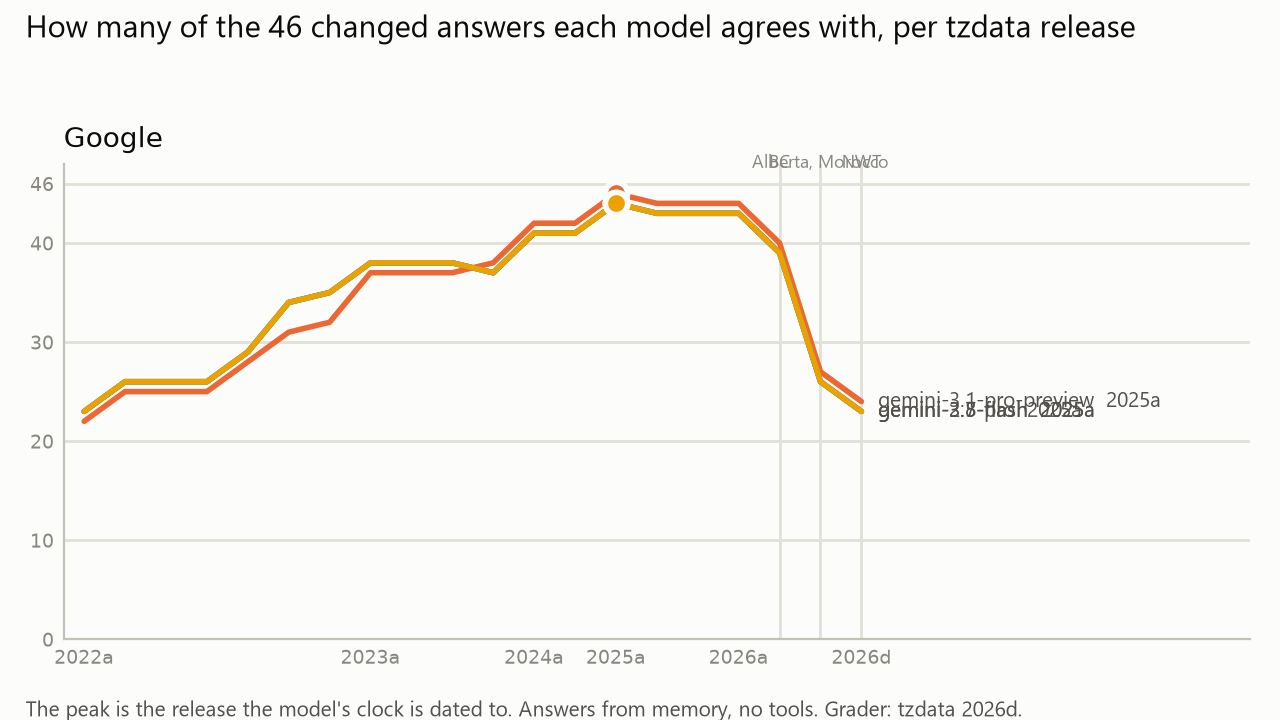
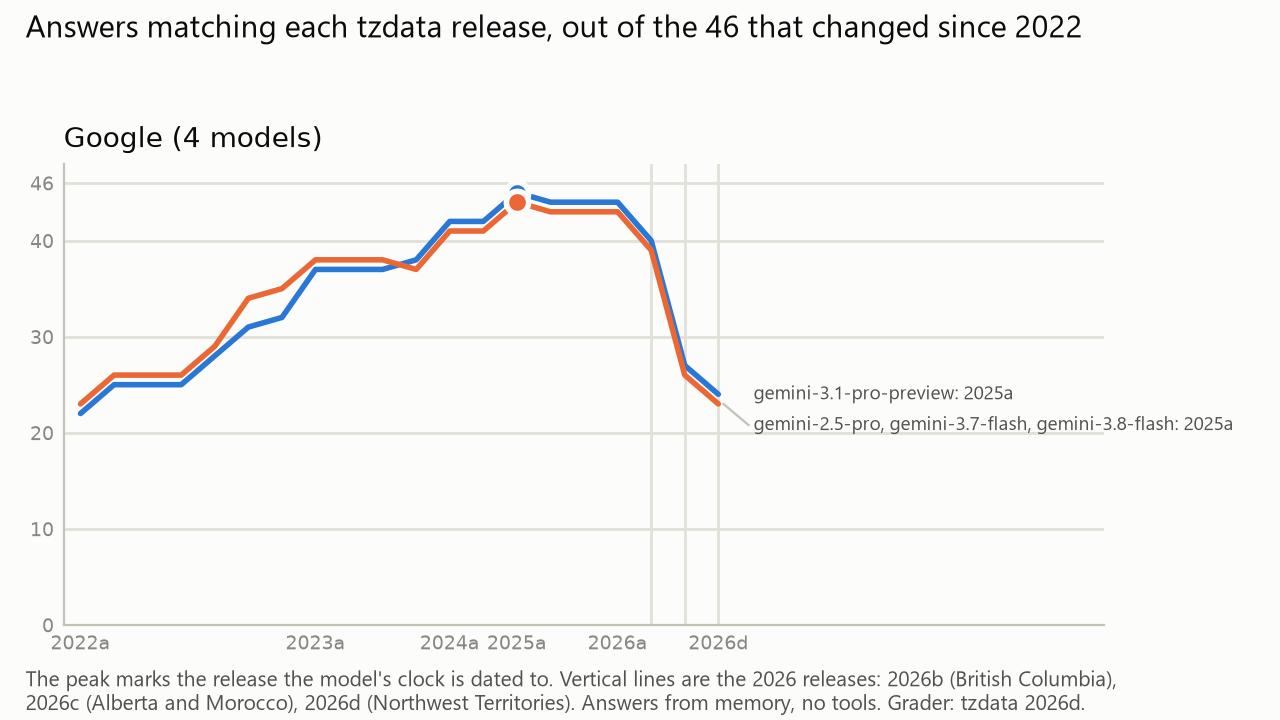
Chart label fixes; add quotes helper

diff --git a/analysis/plot_ladder.py b/analysis/plot_ladder.py
@@ -81,26 +81,43 @@ def main() -> None:
     for ax, name in zip(axes.flat, order):
         ax.set_facecolor(SURFACE)
         series = sorted(panels[name], key=lambda r: short(r["model"]))
-        for i, r in enumerate(series[:5]):
-            colour = SERIES[i]
+        # Models with identical curves share one line and one label: an identical
+        # ladder row means an identical clock, which is worth seeing as one line.
+        curves: dict[tuple, list[dict]] = {}
+        for r in series:
             agree = r["clock"]["agreement_by_release"]
-            y = [agree[f"{v} ({INDEX[v]['iana']})"] for v in RELEASES]
+            y = tuple(agree[f"{v} ({INDEX[v]['iana']})"] for v in RELEASES)
+            curves.setdefault(y, []).append(r)
+        distinct = sorted(curves.items(), key=lambda kv: -kv[0][-1])  # by end value, high to low
+
+        # End-label positions: keep labels at least `gap` apart, top down.
+        gap = 3.2
+        label_y: list[float] = []
+        for y, _ in distinct:
+            want = float(y[-1])
+            if label_y and want > label_y[-1] - gap:
+                want = label_y[-1] - gap
+            label_y.append(want)
+
+        for i, ((y, members), ly) in enumerate(zip(distinct, label_y)):
+            colour = SERIES[i % len(SERIES)]
             ax.plot(x, y, color=colour, linewidth=2, solid_joinstyle="round", solid_capstyle="round", zorder=3)
-            best = r["clock"]["best_agreement"]
-            peak_idx = [k for k, val in enumerate(y) if val == best]
-            # Marker on the latest release tied at the peak: that is the dated clock.
-            k = peak_idx[-1]
+            best = max(y)
+            k = max(idx for idx, val in enumerate(y) if val == best)  # latest release tied at the peak
             ax.scatter([k], [y[k]], s=64, color=colour, edgecolors=SURFACE, linewidths=2, zorder=4)
-            label = f"{short(r['model'])}  {IANA[k]}"
-            ax.annotate(
-                label, (x[-1], y[-1]), xytext=(6, 0), textcoords="offset points",
-                va="center", ha="left", fontsize=7.5, color=INK2,
-            )
-        ax.set_title(name, loc="left", fontsize=10, color=INK, pad=6)
+            names = ", ".join(short(m["model"]) for m in members)
+            label = f"{names}: {IANA[k]}"
+            xe = x[-1]
+            if abs(ly - y[-1]) > 0.1:
+                ax.plot([xe + 0.15, xe + 0.9], [y[-1], ly], color=AXIS, linewidth=0.8, zorder=2)
+            ax.text(xe + 1.05, ly, label, va="center", ha="left", fontsize=7, color=INK2)
+
+        ax.set_title(f"{name} ({len(series)} model{'s' if len(series) != 1 else ''})", loc="left", fontsize=10, color=INK, pad=6)
         ax.set_ylim(0, ladder_total + 2)
-        ax.set_xlim(-0.5, len(RELEASES) - 0.5 + 9)  # room for end labels
+        ax.set_xlim(-0.5, len(RELEASES) - 0.5 + 11)  # room for end labels
         ax.set_xticks(x)
-        ax.set_xticklabels([lab if lab.endswith("a") or lab in ("2026d",) else "" for lab in IANA], fontsize=7, color=MUTED)
+        shown = {"2022a", "2023a", "2024a", "2025a", "2026a", "2026d"}
+        ax.set_xticklabels([lab if lab in shown else "" for lab in IANA], fontsize=7, color=MUTED)
         ax.set_yticks([0, 10, 20, 30, 40, ladder_total])
         ax.set_yticklabels([str(t) for t in [0, 10, 20, 30, 40, ladder_total]], fontsize=7, color=MUTED)
         ax.grid(axis="y", color=GRID, linewidth=1)
@@ -109,25 +126,23 @@ def main() -> None:
         for spine in ("left", "bottom"):
             ax.spines[spine].set_color(AXIS)
         ax.tick_params(length=0)
-        # Hairlines at the 2026 wave releases, labelled once, recessive.
-        for iana_name, text in (("2026b", "BC"), ("2026c", "Alberta, Morocco"), ("2026d", "NWT")):
-            k = IANA.index(iana_name)
-            ax.axvline(k, color=GRID, linewidth=1, zorder=1)
-            ax.text(k, ladder_total + 1.2, text, fontsize=6.5, color=MUTED, ha="center", va="bottom")
+        for iana_name in ("2026b", "2026c", "2026d"):
+            ax.axvline(IANA.index(iana_name), color=GRID, linewidth=1, zorder=1)
 
     for ax in list(axes.flat)[len(order):]:
         ax.set_visible(False)
 
     fig.suptitle(
-        f"How many of the {ladder_total} changed answers each model agrees with, per tzdata release",
+        f"Answers matching each tzdata release, out of the {ladder_total} that changed since 2022",
         x=0.02, ha="left", fontsize=11, color=INK,
     )
     fig.text(
         0.02, 0.005,
-        "The peak is the release the model's clock is dated to. Answers from memory, no tools. Grader: tzdata 2026d.",
-        fontsize=7.5, color=INK2,
+        "The peak marks the release the model's clock is dated to. Vertical lines are the 2026 releases: 2026b (British Columbia),\n"
+        "2026c (Alberta and Morocco), 2026d (Northwest Territories). Answers from memory, no tools. Grader: tzdata 2026d.",
+        fontsize=7.5, color=INK2, va="bottom",
     )
-    fig.tight_layout(rect=(0, 0.03, 1, 0.95))
+    fig.tight_layout(rect=(0, 0.05, 1, 0.95))
     out.parent.mkdir(exist_ok=True)
     fig.savefig(out, facecolor=SURFACE)
     print(f"wrote {out} ({len(rows)} models, {n} panels)")

diff --git a/analysis/quotes.py b/analysis/quotes.py
@@ -1,0 +1,58 @@
+"""Pull each model's own one-sentence note for the cases the post talks about.
+
+Usage:
+    python analysis/quotes.py [--condition memory] [case_id ...]
+
+Defaults to the Calgary, Vancouver, Casablanca, Coyhaique and Manitoba cases. Notes are
+the model's words, recorded by the task and never graded; the post quotes them verbatim.
+"""
+
+from __future__ import annotations
+
+import glob
+import json
+import sys
+from pathlib import Path
+
+sys.path.insert(0, str(Path(__file__).resolve().parent))
+from date_the_clock import find_answer_files  # noqa: E402
+
+ROOT = Path(__file__).resolve().parent.parent
+
+DEFAULT_CASES = [
+    "change_day:calgary:2026-11-01",
+    "offset:calgary:2026-11-15:12:00",
+    "offset:vancouver:2026-12-15:12:00",
+    "offset:casablanca:2026-10-15:12:00",
+    "change_day:casablanca:2026-09-20",
+    "offset:coyhaique:2025-07-15:12:00",
+    "offset:almaty:2024-07-15:12:00",
+    "change_day:winnipeg:2026-11-01",
+]
+
+condition = "memory"
+args = sys.argv[1:]
+if "--condition" in args:
+    i = args.index("--condition")
+    condition = args[i + 1]
+    args = args[:i] + args[i + 2:]
+cases = args or DEFAULT_CASES
+
+files = find_answer_files(ROOT / "results" / "raw")
+runs = []
+for p in files:
+    d = json.loads(p.read_text(encoding="utf-8"))
+    if d.get("condition") != condition or "smoke" in d.get("task", ""):
+        continue
+    runs.append(d)
+runs.sort(key=lambda d: -d["graded_correct"])
+
+for cid in cases:
+    print(f"\n### {cid}")
+    for d in runs:
+        row = next((r for r in d["rows"] if r["id"] == cid), None)
+        if row is None:
+            continue
+        mark = "ok " if row["correct"] else ("   " if not row["graded"] else "X  ")
+        model = d["model"].split("/")[-1].split("@")[0]
+        print(f"{mark}{model:28s} {json.dumps(row['answer']):40s} {row['note']}")
